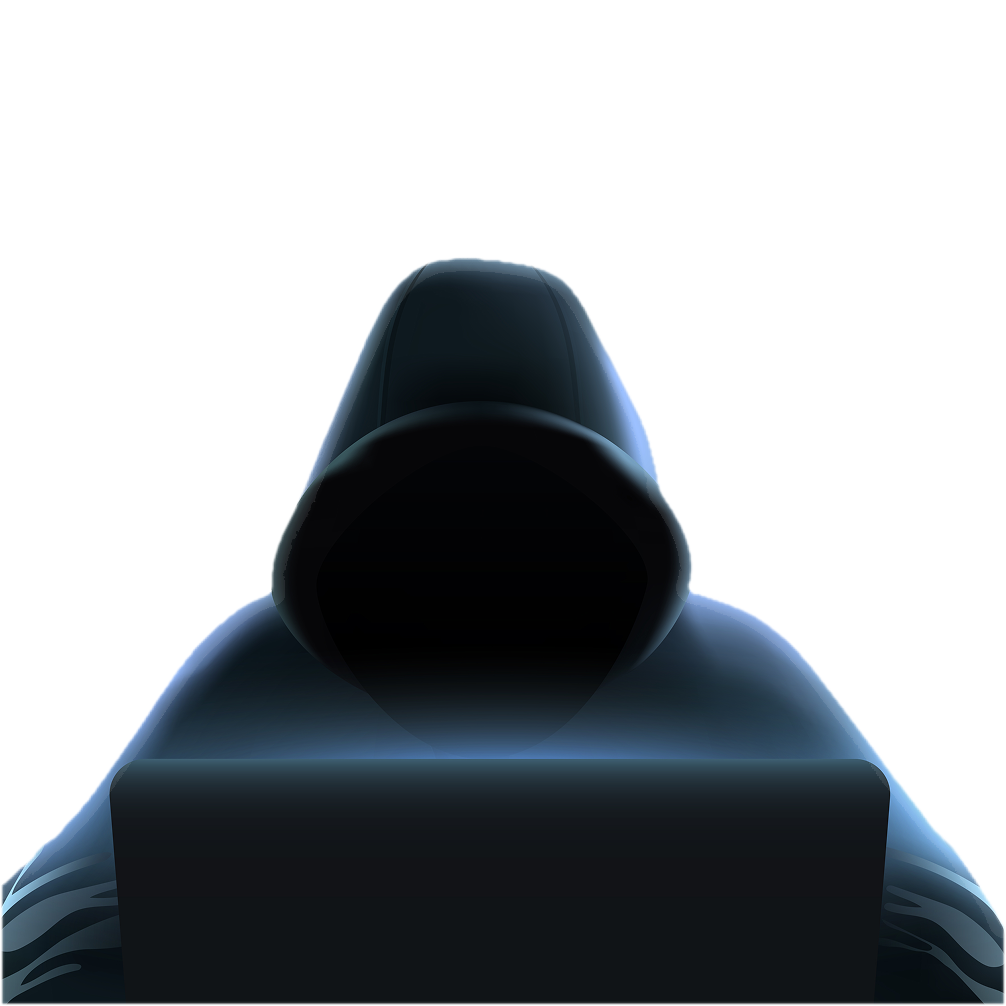
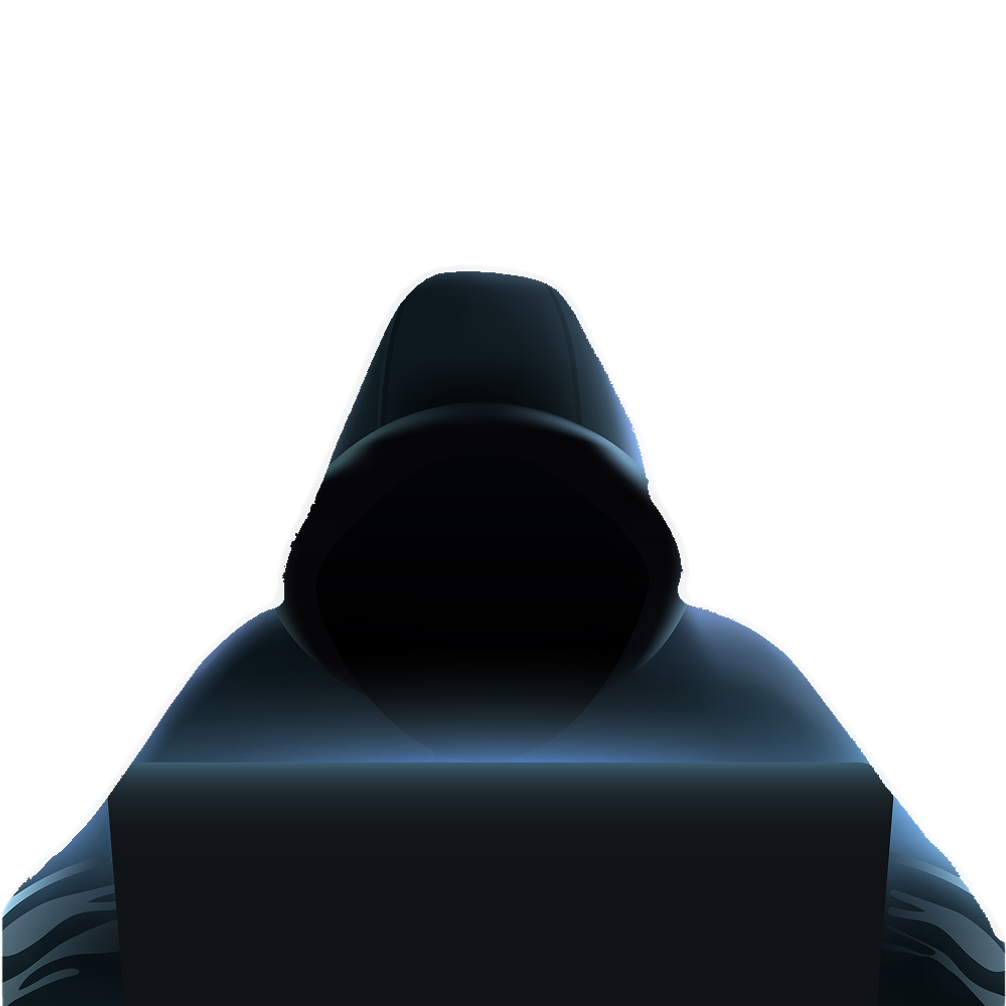
fix hearder +animation  btn nav blog

diff --git a/src/styles/components/blog.scss b/src/styles/components/blog.scss
@@ -9,13 +9,13 @@
     display: flex;
     flex-direction: column;
     gap: 30px;
-    h2{
+    h3{
         color: $c-soustitle-blog;
         font-size: clamp(2.5rem, 2.3295rem + 0.9091vw, 3.125rem);
         line-height: 90%;
         margin: 0;
     }
-    h3{
+    h4{
         color: $c-soustitle-blog;
         font-size: clamp(1.75rem, 1.6307rem + 0.6364vw, 2.1875rem);
         line-height: 120%;
@@ -81,25 +81,30 @@
 background: $c-bg-degrade-blog;
 padding-top: 20px;
 padding-bottom: 0;
-h1{
+display: flex;
+flex-direction: column;
+max-height: fit-content;
+
+h1, h2{
     font-family: "Holtwood One SC";
     line-height: 100%;
     font-size: clamp(3rem, 2.2007rem + 2.8421vw, 4.6875rem);
     text-align: center;
     position: relative;
     z-index: 10;
-    margin-top: 60px;
-    margin-bottom: 0;
+
     max-width: 10ch;
     display: flex;
     justify-self: center;
+    margin:60px auto 0 auto; 
     background: linear-gradient(117deg, #D6E5FC 15.06%, #FF9EE5 73.55%);
     background-clip: text;
     -webkit-background-clip: text;
     -webkit-text-fill-color: transparent;
     }
 img{
-    margin-top: -15%;}
+    margin-top: -15%;
+ }
     @media (min-width: $desktop-size) {
         display: flex;
         flex-direction: row-reverse;
@@ -108,7 +113,7 @@ img{
         }
         H1{
             justify-self: start;
-            margin-left: -22%;
+           margin-left: -22%;
         }
         
     }
@@ -124,7 +129,7 @@ img{
         display: flex;
         justify-self: center;
     }
-    h2{
+    h3{
         text-align: center;
     }
     ul{
@@ -154,21 +159,29 @@ img{
         }
     }
 }
+
 .blog__burger{
-background: $c-bg-degrade-blog;
+ 
+background-image: linear-gradient(to right , #D866B0 2.06%, #2628A3 57.89%, #D866B0 100%);
+background-size: 200% auto;
 width: fit-content;
 cursor: pointer;
 padding: 10px;
 border-radius: 5px;
 color: $c-text-blog;
 border: none;
-&:hover{
-   background: linear-gradient(180deg, $c-bg-degrade-blog);
+transition: all 0.5s;
+position: fixed;
+bottom: 10px;
+right: 10px;
+opacity: 0;
+&.--show{
+    opacity: 100%;
 }
-    @media (min-width: $desktop-size) {
-        display: none;
-    }
-}
+&:hover,&:focus {
+    background-position: right center;
+
+}}
 .blog__nav{
     display: none;
     flex-direction: column;
@@ -205,7 +218,7 @@ border: none;
     grid-template-rows:  auto;
     column-gap: 12px;
     margin: 5px 0;
-    
+
     img{
         grid-row: 1/ 3;
         border-radius: 15px;
@@ -215,6 +228,7 @@ border: none;
         align-self: center;
         color: $c-text-blog;
         align-self: end;
+        transition: 0,5s ease-in;
     }
     .blog__nav--line{
         grid-column: 2;
@@ -223,9 +237,10 @@ border: none;
         height: 3px;
         background: $degradient-blog;
         border-radius: 5px;
+        transition: 0,5s ease-in;
         
     }
-    &:hover {
+    &:hover, &:focus {
         .blog__nav--line{
             width: 70%;
         }

diff --git a/src/scripts/app.js b/src/scripts/app.js
@@ -1,7 +1,9 @@
 const blogBurger = document.querySelector('.blog__burger');
 const blogNav = document.querySelector('.blog__nav');
-const scroll = window.scrollY;
-console.log(scroll);
+const lunaInput = document.querySelector('.luans__input')
+let lastScroll=0;
+const widthScreen = screen.width
+console.log(widthScreen)
 
 blogBurger.addEventListener('click', opennav); 
 
@@ -11,4 +13,15 @@ function opennav() {
 }
     function closeNavigation() {
     blogNav.classList.remove('blog__nav--active');
+}
+
+window.addEventListener('scroll',showBTN);
+function showBTN(e){
+    const scrollCurrent = window.scrollY;
+    if(scrollCurrent < lastScroll && widthScreen < 1024){
+    blogBurger.classList.add("--show")}
+    else{
+        blogBurger.classList.remove("--show")
+    }
+    lastScroll = scrollCurrent
 }

diff --git a/src/styles/app.scss b/src/styles/app.scss
@@ -3,3 +3,4 @@
 @import 'components/blog.scss';
 @import 'components/monde.scss';
 @import 'components/fapsl.scss';
+@import 'components/lunas.scss';
